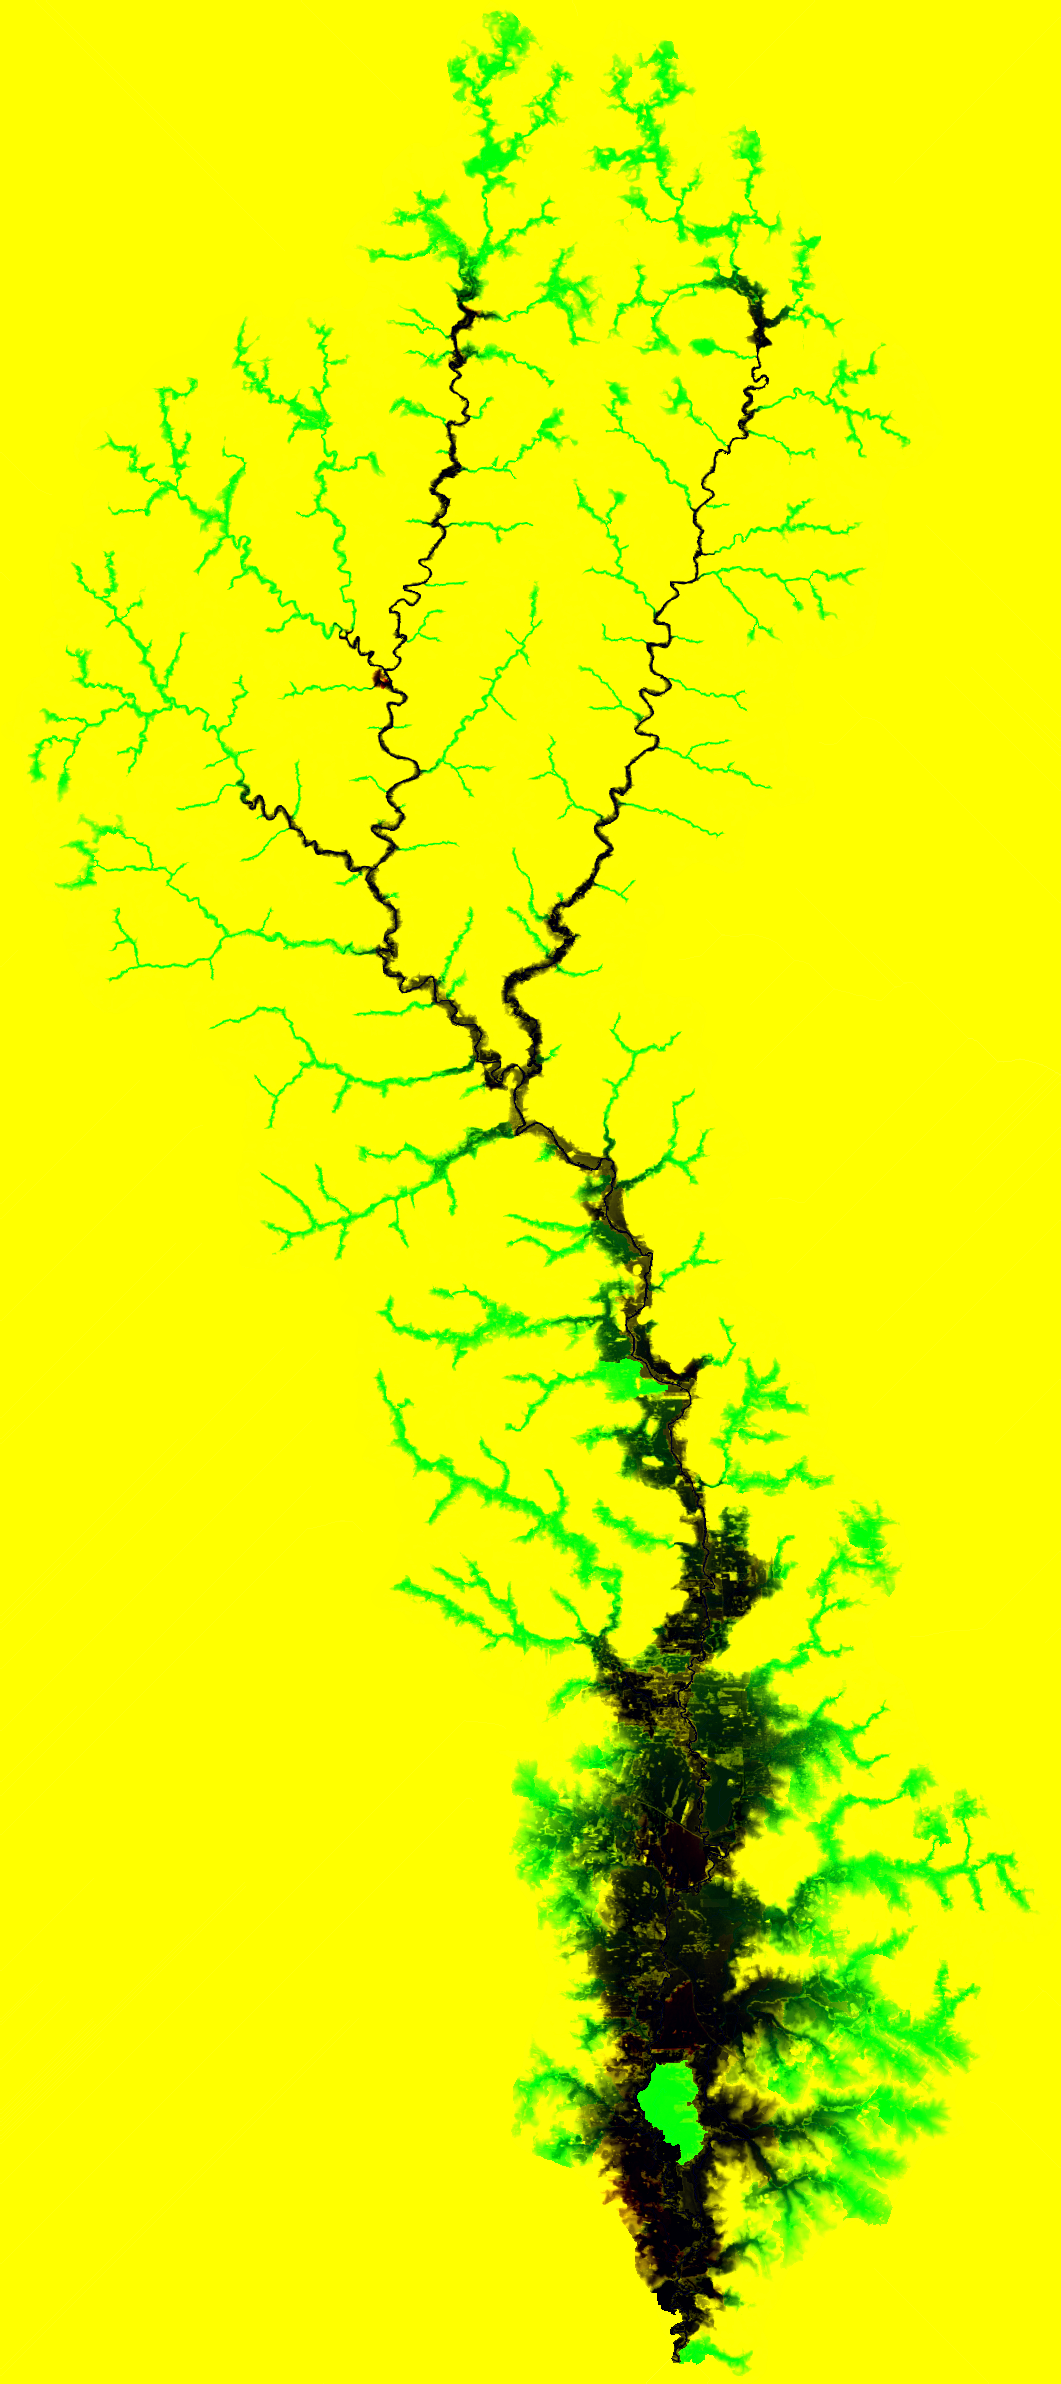
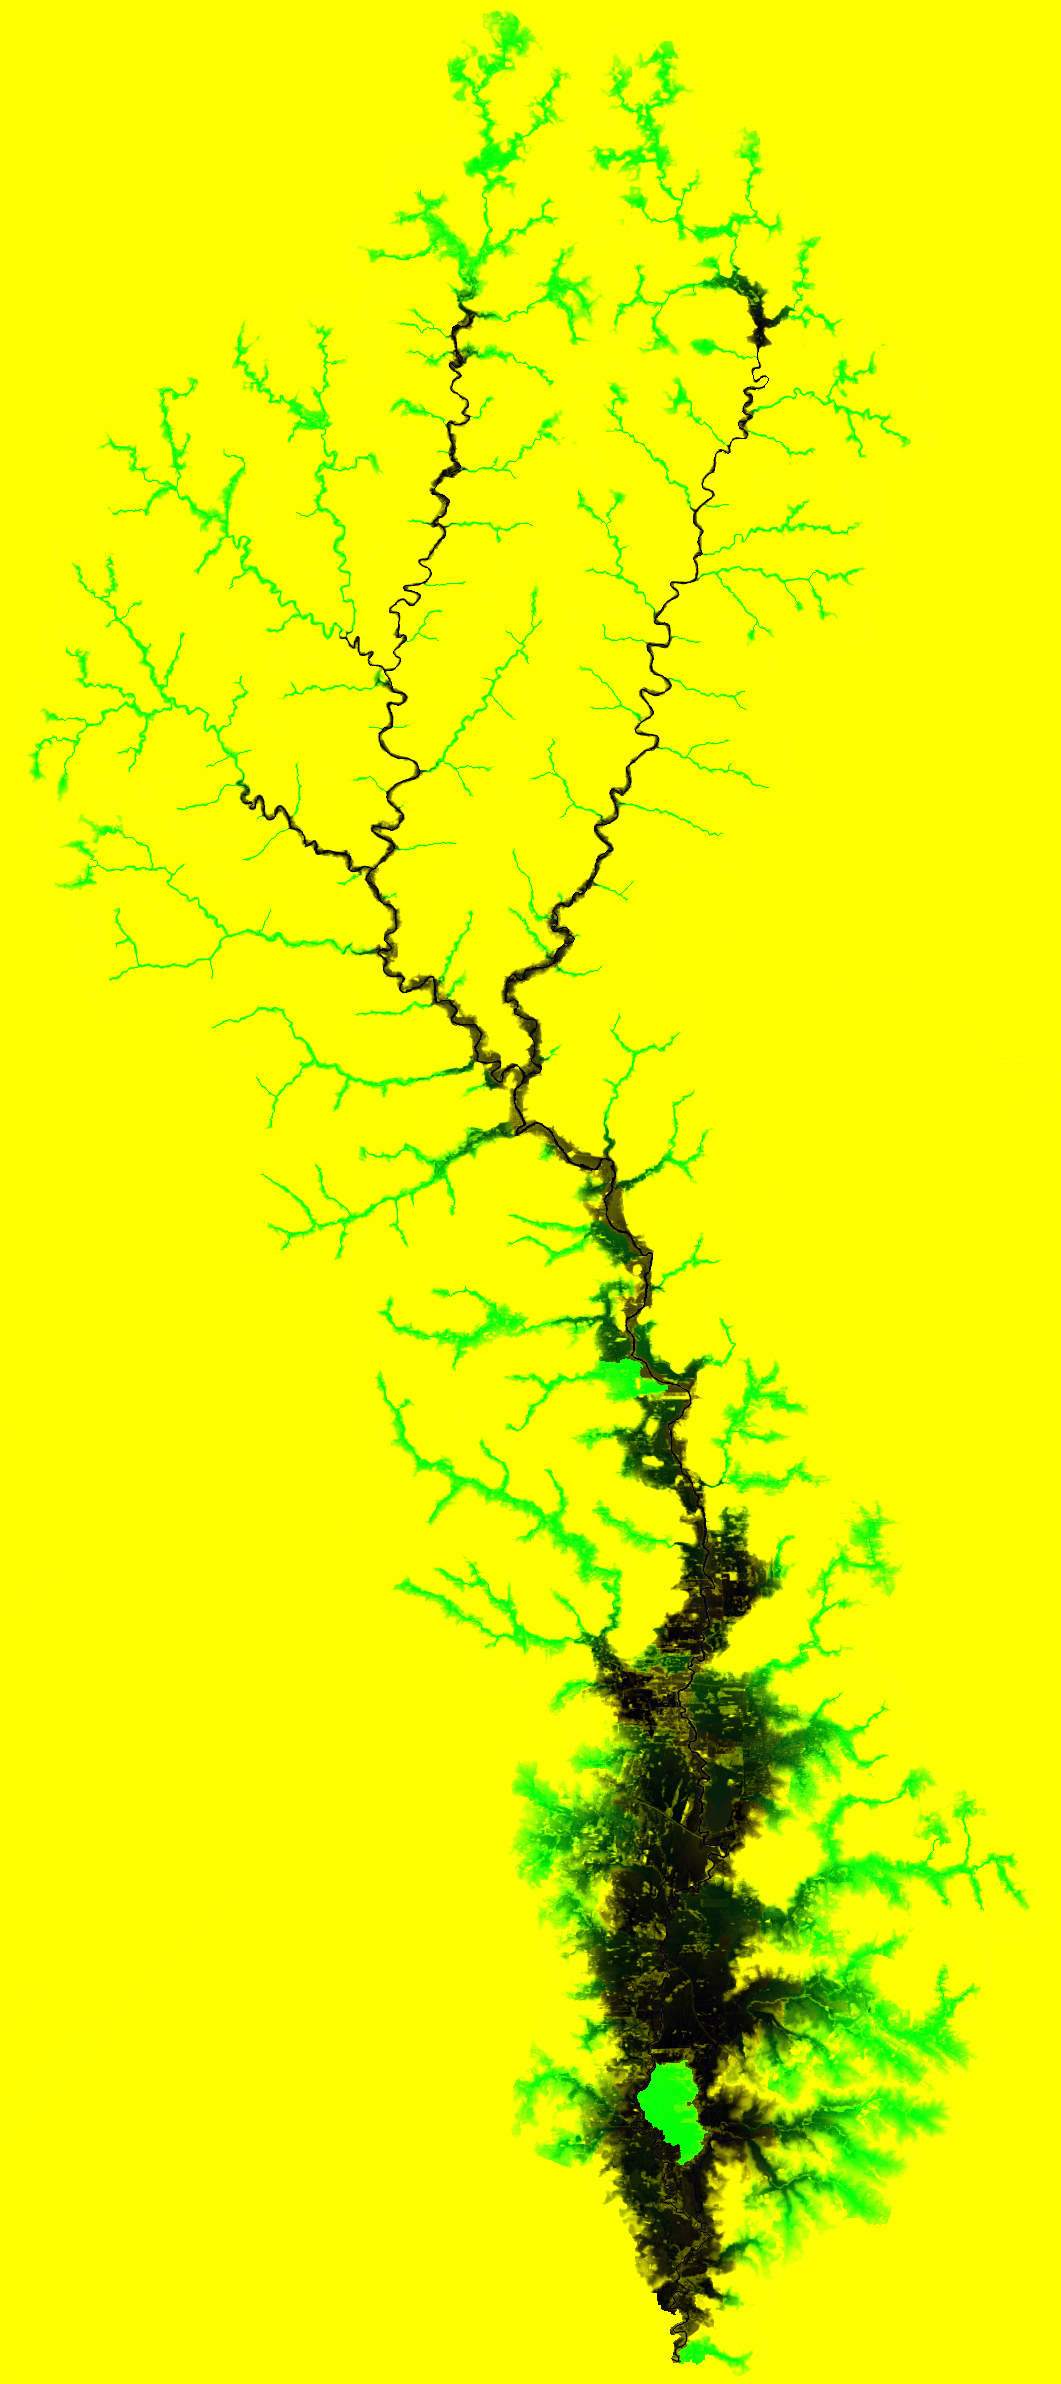
HAND com cota do rio corrigida e área alagada sem o leito
O MDE de superfície deixa o canal mais alto que a várzea (mata ciliar), o que
gerava HAND negativo em ~16 km² e marcava 22 km² alagados a 0,1 m. A cota do
canal passa a ser o mínimo do terreno num raio de 90 m, sem subir rio abaixo.

Claude-Session: https://claude.ai/code/session_01Jto5KDE7a9mbw95tFGG1gU

diff --git a/fonte/index.html b/fonte/index.html
@@ -223,7 +223,7 @@ button:focus-visible, input:focus-visible { outline: 2px solid var(--accent); ou
         <button id="ref-arroios" aria-pressed="false">Todos os arroios<small>área drenada ≥ 1 km²</small></button>
       </div>
       <div class="kpis">
-        <div class="kpi"><b id="k-area">0,0</b><span>km² alagados</span></div>
+        <div class="kpi"><b id="k-area">0,0</b><span>km² alagados fora do leito</span></div>
         <div class="kpi"><b id="k-perc">0,0%</b><span>da sub-bacia</span></div>
       </div>
     </section>
@@ -251,7 +251,7 @@ button:focus-visible, input:focus-visible { outline: 2px solid var(--accent); ou
       <p>O tempo até a foz usa velocidades típicas: <b>0,3 m/s</b> escorrendo pela encosta, <b>1,0 m/s</b> nos arroios e <b>1,5 m/s</b> nos rios principais. A vazão é calculada pelo método tempo-área, sem o amortecimento da cheia ao longo do rio.</p>
       <p>Quanto da chuva vira enxurrada sai do método <b>SCS Curva-Número</b>: cada ponto recebe um número conforme o uso do solo (MapBiomas 2025) e o grupo hidrológico do solo (mapa de solos 1:250.000, classificado conforme Sartori, Lombardi Neto e Genovez, 2005). Floresta em solo profundo retém muito; lavoura em Neossolo raso escoa muito. O mapa de solos é grosseiro para uma propriedade; ensaios de infiltração em campo melhoram bastante a estimativa local.</p>
       <p>Os números servem para <b>comparar lugares e cenários</b> e entender a dinâmica. Para valores absolutos de vazão é preciso calibrar com medições de chuva e vazão.</p>
-      <p>O nível de cheia marca como alagado todo ponto cuja altura acima do rio mais próximo é menor que o nível escolhido. O terreno tem precisão vertical de alguns metros, então os primeiros 1 a 2 m mostram as partes mais baixas da várzea.</p>
+      <p>O nível de cheia marca como alagado todo ponto cuja altura acima do rio mais próximo é menor que o nível escolhido. A altura do rio é a do ponto mais baixo do terreno a até 90 m do canal, porque o modelo de terreno mede o topo da mata ciliar e deixaria o rio mais alto que a várzea. A área alagada não conta o próprio leito do rio. O terreno tem precisão vertical de alguns metros, então os primeiros 1 a 2 m mostram as partes mais baixas da várzea.</p>
     </section>
   </div>
 
@@ -369,7 +369,7 @@ button:focus-visible, input:focus-visible { outline: 2px solid var(--accent); ou
       if (banda && tt[i] <= t10 && tt[i] > t10 - 10) c = mix(c, bc, 0.75);
       const hv = H_[i];
       const hl = nV ? nivelPx(i) : h10;
-      if (hl > 0 && hv < 254 && hv <= hl) { const f = Math.min((hl - hv) / 50, 1); c = mix(c, [lo[0] + (hi[0] - lo[0]) * f, lo[1] + (hi[1] - lo[1]) * f, lo[2] + (hi[2] - lo[2]) * f], 0.88); nAlag++; }
+      if (hl > 0 && hv < 254 && hv <= hl) { const f = Math.min((hl - hv) / 50, 1); c = mix(c, [lo[0] + (hi[0] - lo[0]) * f, lo[1] + (hi[1] - lo[1]) * f, lo[2] + (hi[2] - lo[2]) * f], 0.88); if (!(st.ref === "rios" ? canal[i] === 2 : canal[i])) nAlag++; }
       if (st.rios && canal[i] && (canal[i] === 2 || accl[i] >= LOG_ARROIO + 20)) c = mix(c, rv, canal[i] === 2 ? 0.9 : 0.6);
       px[j] = c[0]; px[j + 1] = c[1]; px[j + 2] = c[2]; px[j + 3] = 255;
     }

diff --git a/public/index.html b/public/index.html
@@ -235,7 +235,7 @@ button:focus-visible, input:focus-visible { outline: 2px solid var(--accent); ou
         <button id="ref-arroios" aria-pressed="false">Todos os arroios<small>área drenada ≥ 1 km²</small></button>
       </div>
       <div class="kpis">
-        <div class="kpi"><b id="k-area">0,0</b><span>km² alagados</span></div>
+        <div class="kpi"><b id="k-area">0,0</b><span>km² alagados fora do leito</span></div>
         <div class="kpi"><b id="k-perc">0,0%</b><span>da sub-bacia</span></div>
       </div>
     </section>
@@ -263,7 +263,7 @@ button:focus-visible, input:focus-visible { outline: 2px solid var(--accent); ou
       <p>O tempo até a foz usa velocidades típicas: <b>0,3 m/s</b> escorrendo pela encosta, <b>1,0 m/s</b> nos arroios e <b>1,5 m/s</b> nos rios principais. A vazão é calculada pelo método tempo-área, sem o amortecimento da cheia ao longo do rio.</p>
       <p>Quanto da chuva vira enxurrada sai do método <b>SCS Curva-Número</b>: cada ponto recebe um número conforme o uso do solo (MapBiomas 2025) e o grupo hidrológico do solo (mapa de solos 1:250.000, classificado conforme Sartori, Lombardi Neto e Genovez, 2005). Floresta em solo profundo retém muito; lavoura em Neossolo raso escoa muito. O mapa de solos é grosseiro para uma propriedade; ensaios de infiltração em campo melhoram bastante a estimativa local.</p>
       <p>Os números servem para <b>comparar lugares e cenários</b> e entender a dinâmica. Para valores absolutos de vazão é preciso calibrar com medições de chuva e vazão.</p>
-      <p>O nível de cheia marca como alagado todo ponto cuja altura acima do rio mais próximo é menor que o nível escolhido. O terreno tem precisão vertical de alguns metros, então os primeiros 1 a 2 m mostram as partes mais baixas da várzea.</p>
+      <p>O nível de cheia marca como alagado todo ponto cuja altura acima do rio mais próximo é menor que o nível escolhido. A altura do rio é a do ponto mais baixo do terreno a até 90 m do canal, porque o modelo de terreno mede o topo da mata ciliar e deixaria o rio mais alto que a várzea. A área alagada não conta o próprio leito do rio. O terreno tem precisão vertical de alguns metros, então os primeiros 1 a 2 m mostram as partes mais baixas da várzea.</p>
     </section>
   </div>
 
@@ -381,7 +381,7 @@ button:focus-visible, input:focus-visible { outline: 2px solid var(--accent); ou
       if (banda && tt[i] <= t10 && tt[i] > t10 - 10) c = mix(c, bc, 0.75);
       const hv = H_[i];
       const hl = nV ? nivelPx(i) : h10;
-      if (hl > 0 && hv < 254 && hv <= hl) { const f = Math.min((hl - hv) / 50, 1); c = mix(c, [lo[0] + (hi[0] - lo[0]) * f, lo[1] + (hi[1] - lo[1]) * f, lo[2] + (hi[2] - lo[2]) * f], 0.88); nAlag++; }
+      if (hl > 0 && hv < 254 && hv <= hl) { const f = Math.min((hl - hv) / 50, 1); c = mix(c, [lo[0] + (hi[0] - lo[0]) * f, lo[1] + (hi[1] - lo[1]) * f, lo[2] + (hi[2] - lo[2]) * f], 0.88); if (!(st.ref === "rios" ? canal[i] === 2 : canal[i])) nAlag++; }
       if (st.rios && canal[i] && (canal[i] === 2 || accl[i] >= LOG_ARROIO + 20)) c = mix(c, rv, canal[i] === 2 ? 0.9 : 0.6);
       px[j] = c[0]; px[j + 1] = c[1]; px[j + 2] = c[2]; px[j + 3] = 255;
     }

diff --git a/scripts/hand_ref.py b/scripts/hand_ref.py
@@ -1,0 +1,38 @@
+# HAND com referencia do rio corrigida: a cota de cada celula de canal passa a ser o minimo do MDE num raio
+# de R celulas (aproxima a lamina d'agua/varzea, que o MDE de superficie mostra mais alta por causa da mata ciliar),
+# forcada a nunca subir rio abaixo.
+import sys, os, numpy as np, rasterio, warnings
+if not hasattr(np, "in1d"): np.in1d = np.isin
+from pysheds.grid import Grid
+from scipy.ndimage import minimum_filter
+warnings.filterwarnings("ignore")
+WORK, R = sys.argv[1], int(sys.argv[2]) if len(sys.argv) > 2 else 3
+grid = Grid.from_raster(WORK + "/dem_nd.tif")
+dem = grid.read_raster(WORK + "/dem_nd.tif")
+z = np.asarray(dem, dtype="float64"); valid = z > -9000
+demc = grid.read_raster(WORK + "/dem_cond.tif")
+inf = grid.resolve_flats(grid.fill_depressions(grid.fill_pits(demc)))
+fdir = grid.flowdir(inf); F = np.asarray(fdir)
+accR = grid.accumulation(fdir); A = np.asarray(accR)
+zf = np.where(valid, z, 1e9)
+yy, xx = np.mgrid[-R:R+1, -R:R+1]; disco = (xx**2 + yy**2) <= R*R
+zmin = minimum_filter(zf, footprint=disco, mode="nearest")
+DR = {64: (-1, 0), 128: (-1, 1), 1: (0, 1), 2: (1, 1), 4: (1, 0), 8: (1, -1), 16: (0, -1), 32: (-1, -1)}
+Hh, Ww = z.shape
+for nome, km2 in [("arroios", 1.0), ("rios", 50.0)]:
+    s = (A > km2*1e6/900) & valid
+    ref = np.where(s, np.minimum(z, zmin), z)
+    r, c = np.where(s); o = np.argsort(A[r, c])
+    for k in o:                       # de montante para jusante: nunca sobe
+        i, j = r[k], c[k]; d = DR.get(int(F[i, j]))
+        if not d: continue
+        a, b = i + d[0], j + d[1]
+        if 0 <= a < Hh and 0 <= b < Ww and s[a, b] and ref[a, b] > ref[i, j]: ref[a, b] = ref[i, j]
+    dm = dem.copy(); dm[:] = np.where(valid, ref, -9999.0)
+    H = np.asarray(grid.compute_hand(fdir, dm, accR > km2*1e6/900), dtype="float64")
+    H[~valid] = np.nan
+    H[s] = 0.0
+    # dentro do raster, a altura usa o MDE original; a referencia corrigida so muda a cota do canal
+    km = lambda n: n * 900 / 1e6; nc = np.isfinite(H) & ~s
+    print(nome, "canal %.1f km2 | fora do canal: <0 %.1f, 0-0.15 %.1f, 0.15-1 %.1f, 1-2 %.1f km2" % (km(s.sum()), km((nc & (H < 0)).sum()), km((nc & (H >= 0) & (H < .15)).sum()), km((nc & (H >= .15) & (H < 1)).sum()), km((nc & (H >= 1) & (H < 2)).sum())))
+    np.save(WORK + f"/hand_{nome}.npy", H)

diff --git a/scripts/dados_hand.py b/scripts/dados_hand.py
@@ -1,0 +1,15 @@
+# troca so os canais de HAND (R = arroios, G = rios) do dados.png pelos HAND recalculados
+import sys, numpy as np
+from PIL import Image
+WORK, PNG = sys.argv[1], sys.argv[2]
+d = np.array(Image.open(PNG).convert("RGB"))
+def enc(h, fora):
+    q = np.where(np.isfinite(h), np.clip(np.round(h * 10), 0, 254), 254)
+    q[np.isfinite(h) & (h > 25.3)] = 254
+    q[fora] = 255
+    return q.astype("uint8")
+fora = d[..., 0] == 255
+d[..., 0] = enc(np.load(WORK + "/hand_arroios.npy"), fora)
+d[..., 1] = enc(np.load(WORK + "/hand_rios.npy"), fora)
+Image.fromarray(d).save(PNG, optimize=True)
+print("ok", d.shape)

diff --git a/README.md b/README.md
@@ -23,7 +23,7 @@ O servidor repassa só as duas consultas do guia da Defesa Civil (Tags_data e Hi
 - `server.js`, `Dockerfile`, `package.json`: servidor Node sem dependências (serve `public/` e faz o repasse para a API da Defesa Civil RS).
 - `public/`: o site pronto (index.html, dados em PNG, meta.json, ícones).
 - `fonte/index.html`: fonte da página antes do empacotamento.
-- `scripts/`: pipeline em Python que gera os dados a partir do MDE (ordem: hand → web → fluxo → solos_pontos → geo) e os empacotadores (`easypanel.py` gera `public/`, `bundle.py` gera um HTML único).
+- `scripts/`: pipeline em Python que gera os dados a partir do MDE (ordem: hand → web → fluxo → solos_pontos → geo; depois hand_ref → dados_hand corrigem a cota do rio no HAND) e os empacotadores (`easypanel.py` gera `public/`, `bundle.py` gera um HTML único).
 
 ## Nível ao vivo
 
